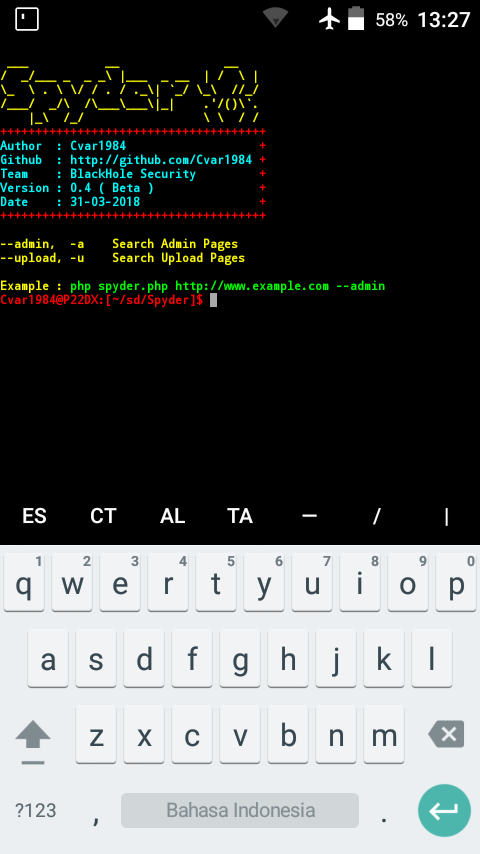
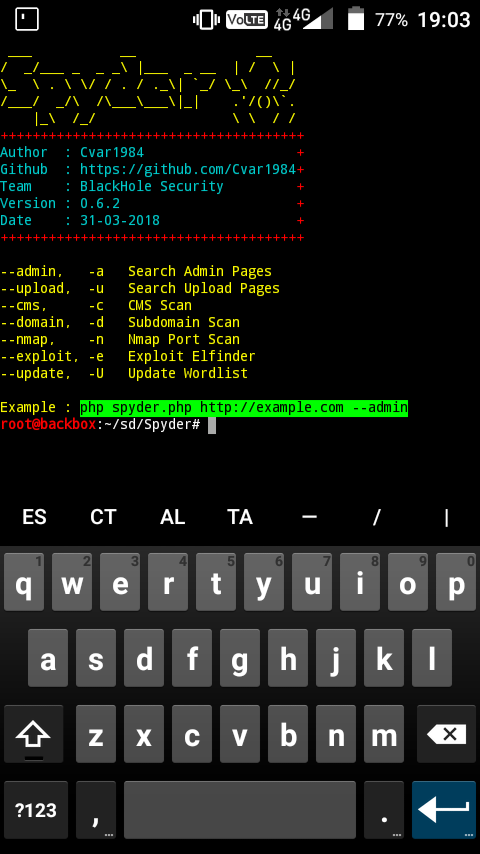
Update

diff --git a/spyder.php b/spyder.php
@@ -50,7 +50,7 @@ echo $R."\n++++++++++++++++++++++++++++++++++++++";
 echo $B."\nAuthor  : Cvar1984                   ".$R."+";
 echo $B."\nGithub  : https://github.com/Cvar1984".$R."+";
 echo $B."\nTeam    : BlackHole Security         ".$R."+";
-echo $B."\nVersion : 0.6.1                      ".$R."+";
+echo $B."\nVersion : 0.6.2                      ".$R."+";
 echo $B."\nDate    : 31-03-2018                 ".$R."+";
 echo $R."\n++++++++++++++++++++++++++++++++++++++".$G."\n\n";
 function_exists("curl_init") OR die($YY . "[!] cUrl Is Missing [!]".$X."\n");
@@ -60,6 +60,7 @@ if(!(isset($argv[1]) AND isset($argv[2]))) {
 	echo "--upload,  -u\tSearch Upload Pages\n";
 	echo "--cms,     -c\tCMS Scan\n";
 	echo "--domain,  -d\tSubdomain Scan\n";
+	echo "--nmap,    -n\tNmap Port Scan\n";
 	echo "--exploit, -e\tExploit Elfinder\n";
 	echo "--update,  -U\tUpdate Wordlist\n\n";
 	echo "Example : ".$GG."php ".$argv[0]." http://example.com --admin".$X."\n";
@@ -146,6 +147,18 @@ if(!(isset($argv[1]) AND isset($argv[2]))) {
 	} else {
 		echo $RR."[!] Upload Failed 2 [!]".$X."\n";
 	}
+		die();
+	} elseif($argv[2] == '--nmap' OR $argv[2] == '-n') {
+		if(preg_match("/^http:/",$argv[1])) {
+			$argv[1]=str_replace('http://','',$argv[1]);
+		} elseif(preg_match("/^https:/",$argv[1])) {
+			$argv[1]=str_replace('https://','',$argv[1]);
+		}
+		$result=file_get_contents("http://api.hackertarget.com/nmap/?q=".$argv[1]);
+		$result=str_replace('\x20'," ",$result);
+		$result=str_replace('\n',"\n",$result);
+		$result=str_replace('\r',"\r",$result);
+		echo $result;
 		die();
 	} else {
 		die($YY . "[!] Parameter False [!]" . $X . "\n");
